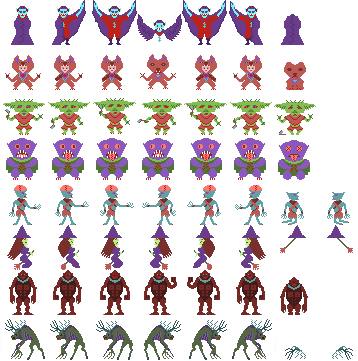
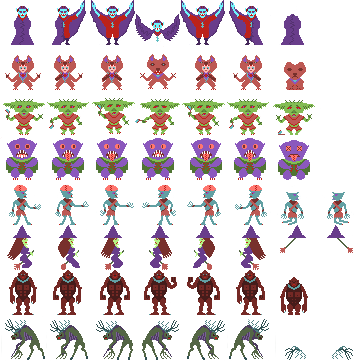
Fix enemies alignment

diff --git a/static/mario/src/mainGame/Enemy.js b/static/mario/src/mainGame/Enemy.js
@@ -16,8 +16,6 @@ export default class Enemy extends Drawable {
     tickCounter = 0;
     maxTick = 10;
 
-    // FIXME: last enemy type not aligned properly
-
     fromType(type) {
         this.type = type ?? this.type ?? Types.Vampire;
         this.sX = 0;
